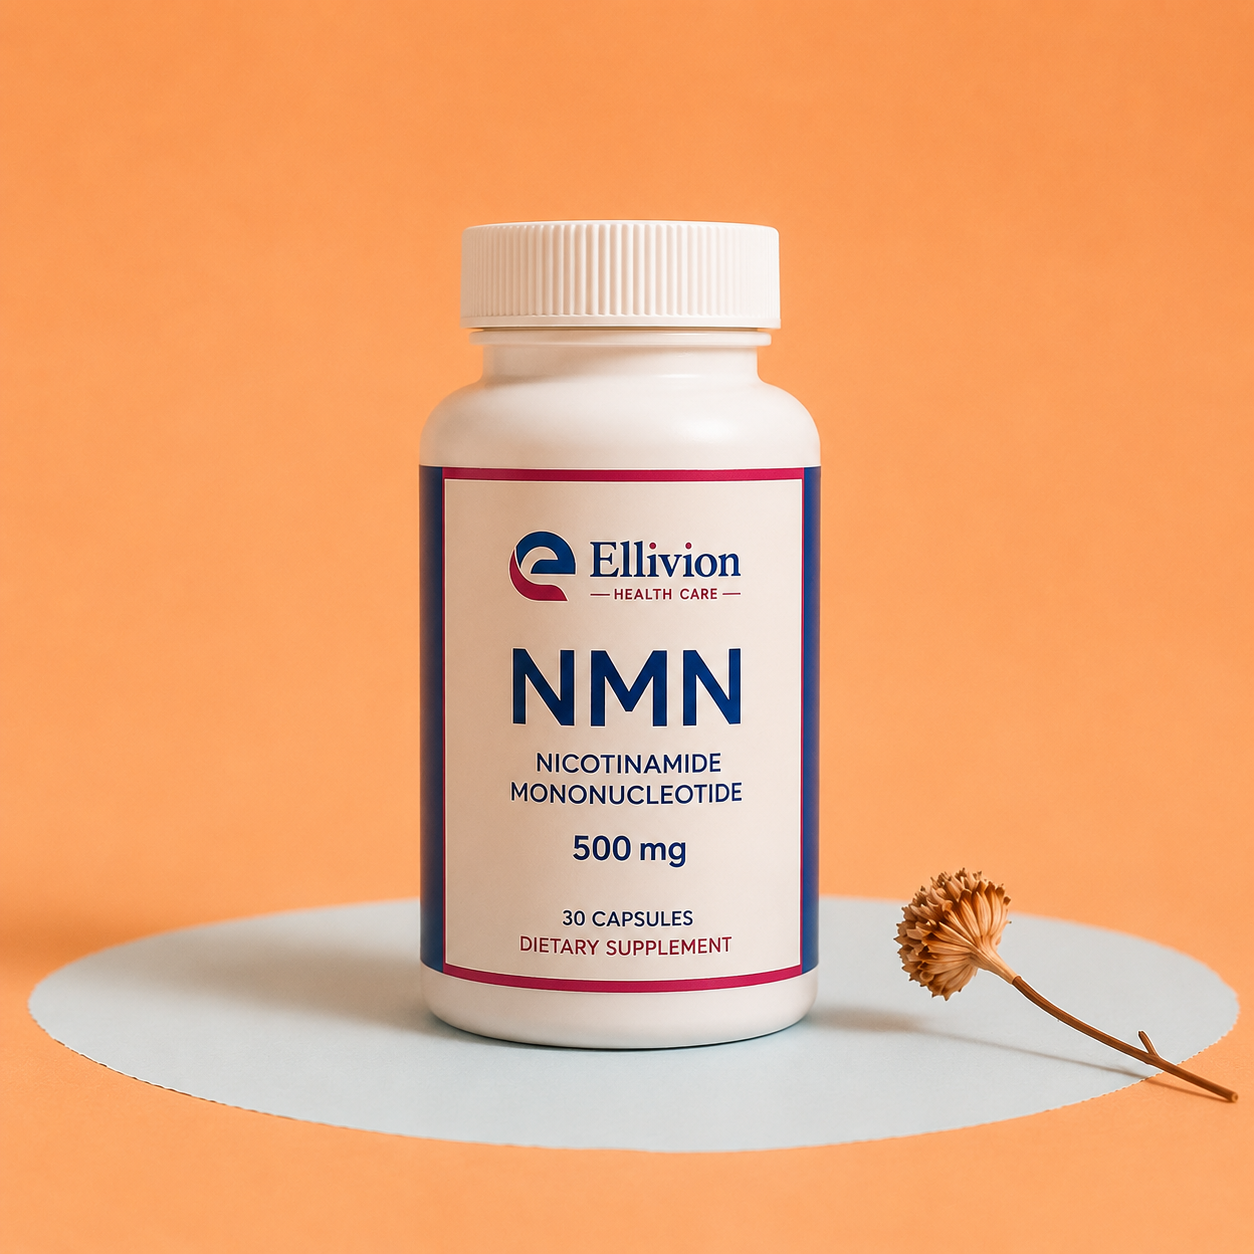
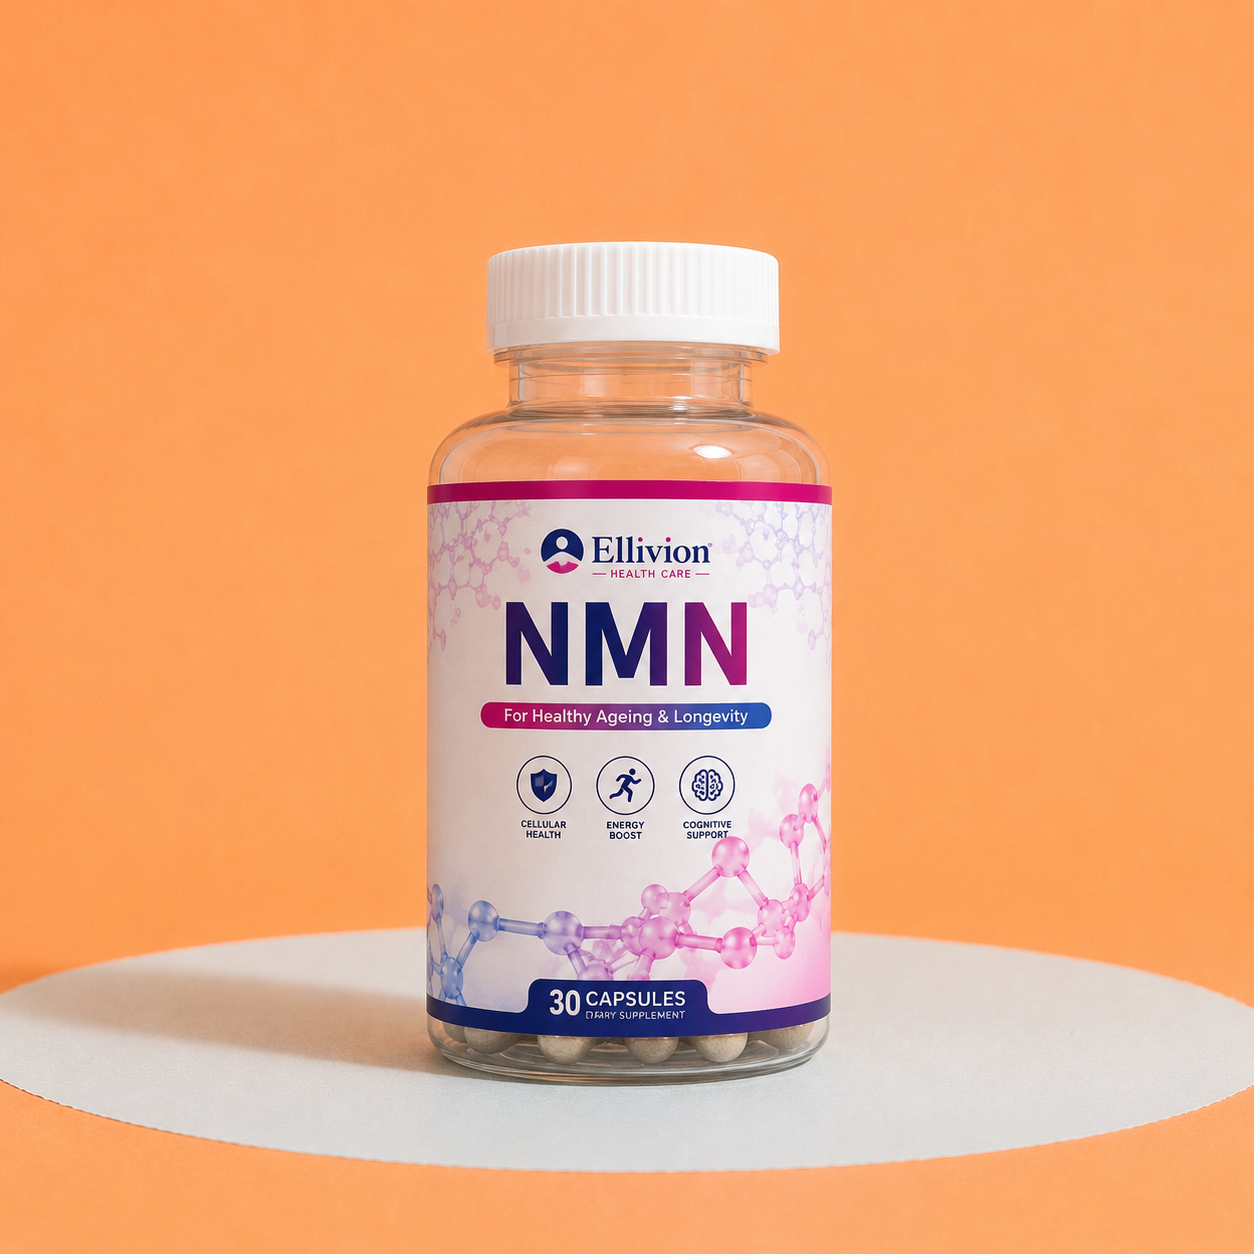
Update home product imagery

Changed region(s): [[0.0, 0.1555, 1.0, 0.933]]

diff --git a/src/routes/index.tsx b/src/routes/index.tsx
@@ -198,7 +198,7 @@ function Home() {
             <p className="mt-6 font-display text-3xl md:text-5xl leading-snug text-balance text-white">
               "A refined collection of wellness, beauty, and fragrance essentials for a life well lived."
             </p>
-            <div className="mt-8 text-sm tracking-wider uppercase text-pink">— Wellness Today</div>
+         
           </Reveal>
         </div>
       </section>